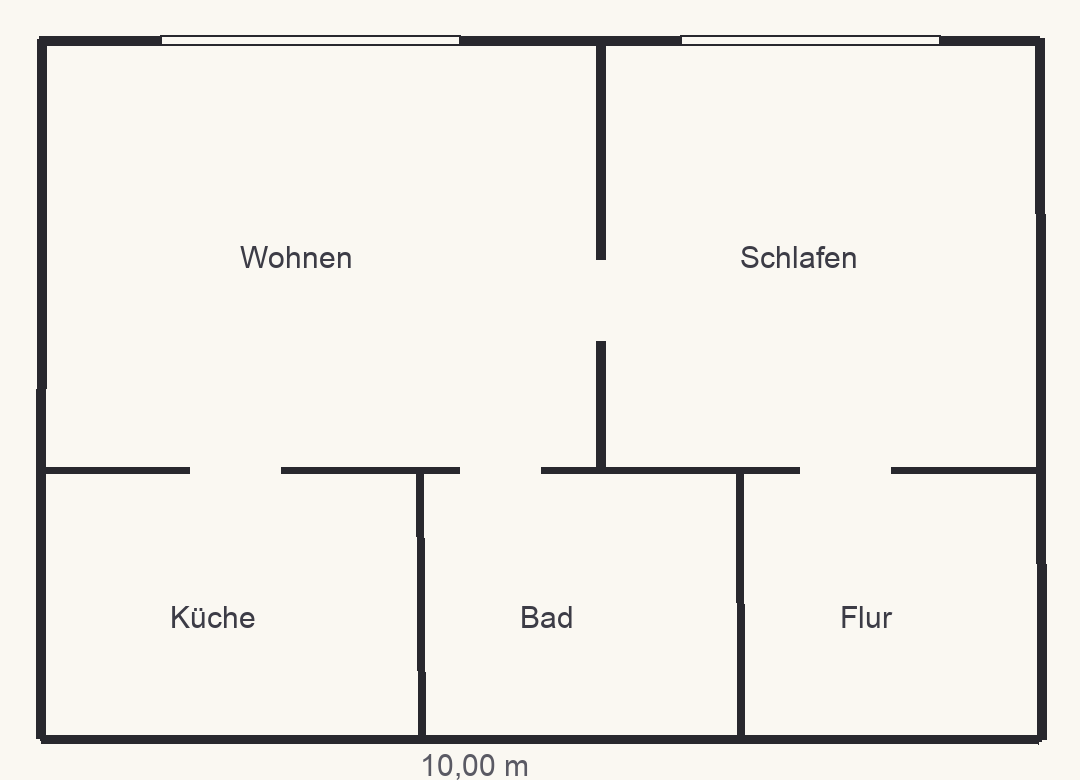
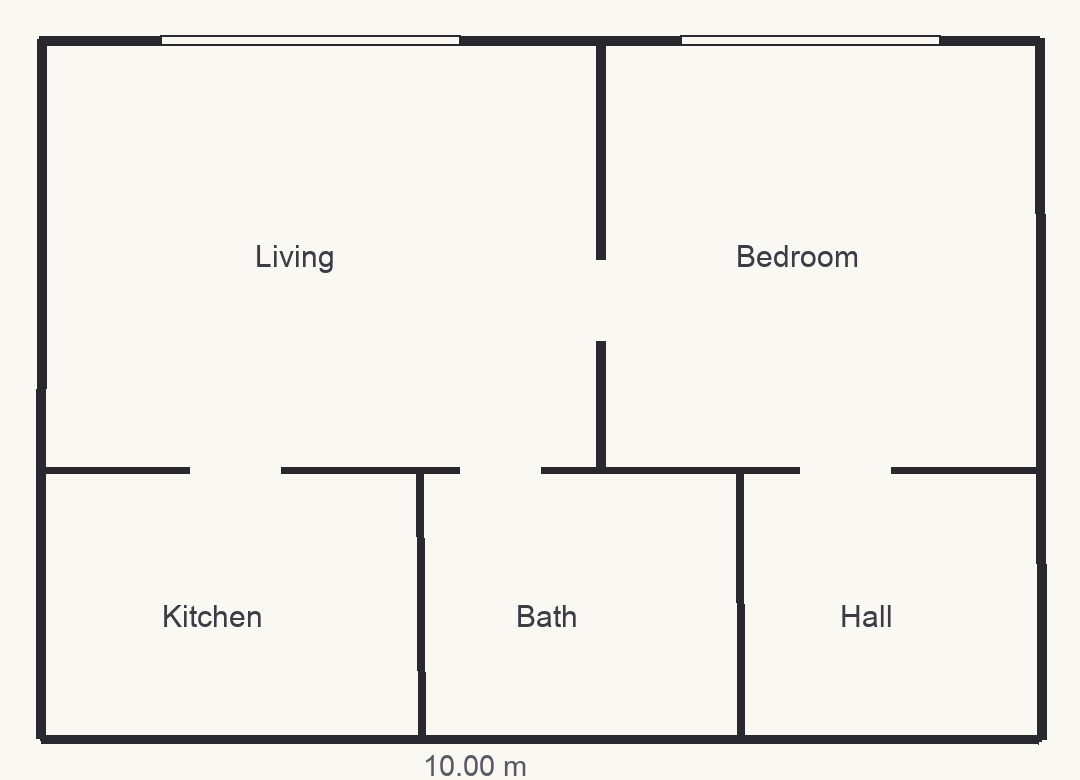
English by default: demo, example sketch, skill examples, export name
Card and editor follow Home Assistant's language and fall back to English (no longer
the browser language). The demo starts in English (?lang=de for German), the example
sketch and the skill's examples use English room names, the exported file is
home.floorplan.json.

diff --git a/dist/glass-floorplan-card.js b/dist/glass-floorplan-card.js
@@ -1594,7 +1594,7 @@ class GlassFloorplanCard extends HTMLElement {
 
   _useLang() {
     const h = this._hass, c = this._config.language;
-    const l = c && c !== 'auto' ? c : h?.locale?.language || h?.language || navigator.language || 'en';
+    const l = c && c !== 'auto' ? c : h?.locale?.language || h?.language || 'en';
     LANG = String(l).toLowerCase().startsWith('de') ? 'de' : 'en';
     LOCALE = h?.locale?.language || h?.language || (LANG === 'de' ? 'de-DE' : 'en');
   }
@@ -4980,7 +4980,7 @@ class GfcEditor extends HTMLElement {
 
   _useLang() {
     const h = this._hs?.(), c = this._c?.language;
-    const l = c && c !== 'auto' ? c : h?.locale?.language || h?.language || navigator.language || 'en';
+    const l = c && c !== 'auto' ? c : h?.locale?.language || h?.language || 'en';
     LANG = String(l).toLowerCase().startsWith('de') ? 'de' : 'en';
     LOCALE = h?.locale?.language || h?.language || (LANG === 'de' ? 'de-DE' : 'en');
   }
@@ -7712,7 +7712,7 @@ Object.assign(GfcEditor.prototype, {
     const blob = new Blob([JSON.stringify(out, null, 1)], { type: 'application/json' });
     const a = document.createElement('a');
     a.href = URL.createObjectURL(blob);
-    a.download = 'grundriss.floorplan.json';
+    a.download = 'home.floorplan.json';
     this.shadowRoot.append(a);
     a.click();
     a.remove();

diff --git a/src/06-card.js b/src/06-card.js
@@ -121,7 +121,7 @@ class GlassFloorplanCard extends HTMLElement {
 
   _useLang() {
     const h = this._hass, c = this._config.language;
-    const l = c && c !== 'auto' ? c : h?.locale?.language || h?.language || navigator.language || 'en';
+    const l = c && c !== 'auto' ? c : h?.locale?.language || h?.language || 'en';
     LANG = String(l).toLowerCase().startsWith('de') ? 'de' : 'en';
     LOCALE = h?.locale?.language || h?.language || (LANG === 'de' ? 'de-DE' : 'en');
   }

diff --git a/src/21-editor.js b/src/21-editor.js
@@ -65,7 +65,7 @@ class GfcEditor extends HTMLElement {
 
   _useLang() {
     const h = this._hs?.(), c = this._c?.language;
-    const l = c && c !== 'auto' ? c : h?.locale?.language || h?.language || navigator.language || 'en';
+    const l = c && c !== 'auto' ? c : h?.locale?.language || h?.language || 'en';
     LANG = String(l).toLowerCase().startsWith('de') ? 'de' : 'en';
     LOCALE = h?.locale?.language || h?.language || (LANG === 'de' ? 'de-DE' : 'en');
   }

diff --git a/demo/index.html b/demo/index.html
@@ -55,7 +55,7 @@
 <script>
 const P = new URLSearchParams(location.search);
 const SCENE = P.get('scene') || 'evening';
-const LANG = P.get('lang') || (navigator.language.startsWith('de') ? 'de' : 'en');
+const LANG = P.get('lang') === 'de' ? 'de' : 'en';
 const MOBILE = P.get('mobile') === '1';
 if (MOBILE) document.body.classList.add('mob');
 if (P.get('sidebar') === '0') document.body.classList.add('nosb');

diff --git a/src/26-editor-import.js b/src/26-editor-import.js
@@ -125,7 +125,7 @@ Object.assign(GfcEditor.prototype, {
     const blob = new Blob([JSON.stringify(out, null, 1)], { type: 'application/json' });
     const a = document.createElement('a');
     a.href = URL.createObjectURL(blob);
-    a.download = 'grundriss.floorplan.json';
+    a.download = 'home.floorplan.json';
     this.shadowRoot.append(a);
     a.click();
     a.remove();

diff --git a/skills/floorplan-setup/scripts/build_plan.py b/skills/floorplan-setup/scripts/build_plan.py
@@ -8,7 +8,7 @@ Draft (all coordinates in pixels of the picture):
   "image": [1080, 780],            # picture size
   "cm_per_px": 1.0,                # scale (from a printed dimension; otherwise estimated)
   "scale": "measured",             # "measured" | "estimated"
-  "rooms": [ {"name": "Wohnen", "rect": [x1, y1, x2, y2],
+  "rooms": [ {"name": "Living", "rect": [x1, y1, x2, y2],
               "furniture": [[x1, y1, x2, y2, "sofa"], ...]}, ... ],
   "windows": [[x1, y1, x2, y2], ...],   # on outer walls
   "doors": [[x1, y1, x2, y2], ...],     # passages between two rooms

diff --git a/skills/floorplan-setup/SKILL.md b/skills/floorplan-setup/SKILL.md
@@ -14,7 +14,7 @@ Answer in the user's language. Keep the chat answer short.
 
 ## Steps
 
-1. **Look at the picture.** Find every room and its name as written on the plan, without area numbers: `WOHNEN 22,4 m²` → `Wohnen`.
+1. **Look at the picture.** Find every room and its name as written on the plan, without area numbers: `LIVING 22.4 m²` → `Living`.
    Also find printed dimensions, windows, doors between rooms, the front door and furniture symbols. Note how far the
    picture is skewed. For phone photos taken at an angle, work with what is reasonable and mention it.
 2. **Find the scale** (centimetres per picture pixel):
@@ -30,7 +30,7 @@ Answer in the user's language. Keep the chat answer short.
 4. **Write a draft** (`draft.json`, all coordinates in **picture pixels**). The format is in `reference/format.md`:
    rooms (name, rect, optional furniture), windows on outer walls, doors between rooms, entrance (front door), `image`
    size, `cm_per_px` and `scale`.
-   - Rooms are axis-aligned rectangles. Split L-shaped rooms into two rectangles: `Wohnen` + `Wohnen 2`.
+   - Rooms are axis-aligned rectangles. Split L-shaped rooms into two rectangles: `Living` + `Living 2`.
    - Furniture is optional and only for the looks, using the kinds in `reference/format.md`. Draw what the plan shows; for empty
      plans add a few typical pieces per room type (bed in bedrooms, sofa + table in living rooms, counter in kitchens,
      bath/shower + toilet + sink in bathrooms). Keep the top-left ~1.7 × 0.9 m of each room free for the room name.

diff --git a/skills/floorplan-setup/reference/format.md b/skills/floorplan-setup/reference/format.md
@@ -9,10 +9,10 @@ right and y downwards. The origin is the top-left corner of the rooms.
  "version": 1,
  "scale": "measured",
  "rooms": [
-  { "name": "Wohnen", "rect": [0, 0, 555, 425],
+  { "name": "Living", "rect": [0, 0, 555, 425],
     "furniture": [[35, 255, 255, 345, "sofa"], [305, 205, 405, 305, "round_table"]] },
-  { "name": "Schlafen", "rect": [555, 0, 990, 425], "furniture": [[675, 35, 855, 235, "bed"]] },
-  { "name": "Küche", "rect": [0, 425, 375, 690], "label": "bottom" }
+  { "name": "Bedroom", "rect": [555, 0, 990, 425], "furniture": [[675, 35, 855, 235, "bed"]] },
+  { "name": "Kitchen", "rect": [0, 425, 375, 690], "label": "bottom" }
  ],
  "windows": [[115, 0, 415, 0], [635, 0, 895, 0]],
  "doors": [[555, 215, 555, 295], [145, 425, 235, 425]],

diff --git a/CHANGELOG.md b/CHANGELOG.md
@@ -1,5 +1,9 @@
 # Changelog
 
+## Unreleased
+
+- English by default wherever Home Assistant's language is unknown; the demo starts in English, the example sketch and skill examples are English
+
 ## 0.1.0 – first version
 
 - Glass floor plan with rooms, furniture, windows, passages and front door (centimetres, edge-to-edge rooms)

diff --git a/docs/configuration.md b/docs/configuration.md
@@ -29,7 +29,7 @@ The editor writes everything for you. For reference, all coordinates are **centi
 
 ```yaml
 type: custom:glass-floorplan-card
-language: auto            # auto | en | de
+language: auto            # auto (Home Assistant's language, otherwise English) | en | de
 rooms:
   - id: living
     name: Living room
